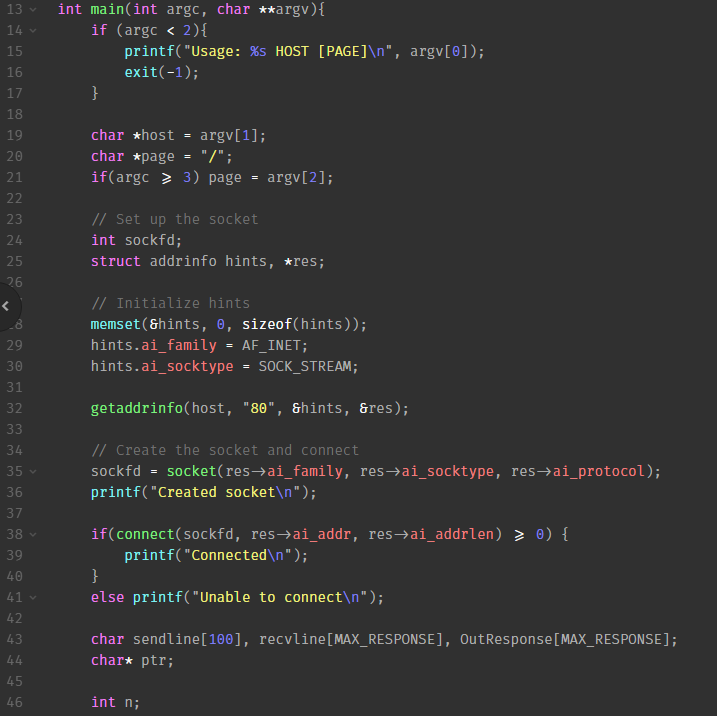
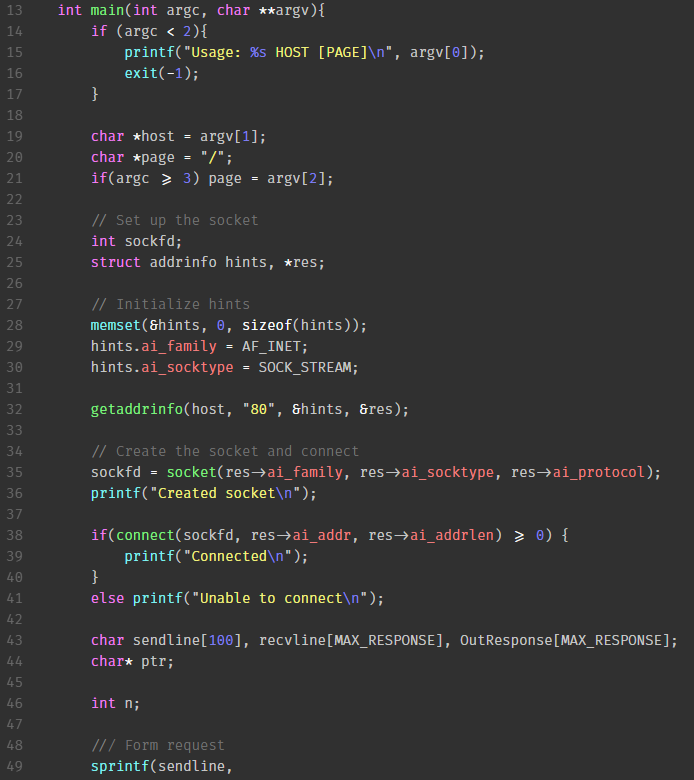
adjusted colors and updated example images

diff --git a/styles/base.less b/styles/base.less
@@ -180,8 +180,7 @@ atom-text-editor {
     color: @green;
   }
   &.syntax--name.syntax--type {
-    color: @blue;
-    text-decoration: underline;
+    color: @white;
   }
 
   &.syntax--other.syntax--inherited-class {
@@ -197,7 +196,6 @@ atom-text-editor {
 
   &.syntax--name.syntax--tag {
     color: @red;
-    text-decoration: underline;
   }
 
   &.syntax--other.syntax--attribute-name {

diff --git a/styles/syntax-variables.less b/styles/syntax-variables.less
@@ -4,8 +4,8 @@
 // include a syntax-variables.less file.
 
 // General colors
-@syntax-text-color: @very-light-gray;
-@syntax-cursor-color: @almost-white;
+@syntax-text-color: @almost-white;
+@syntax-cursor-color: @white;
 @syntax-selection-color: @dark-gray;
 @syntax-background-color: @very-dark-gray;
 

diff --git a/styles/colors.less b/styles/colors.less
@@ -1,7 +1,7 @@
 // These colors are specific to the theme. Do not use in a package!
 
 @white: #ffffff;
-@almost-white: #f8f8f8;
+@almost-white: #c8c8c8;
 @very-light-gray: #b0b0b0;
 @light-gray: #909090;
 @gray: #808080;
